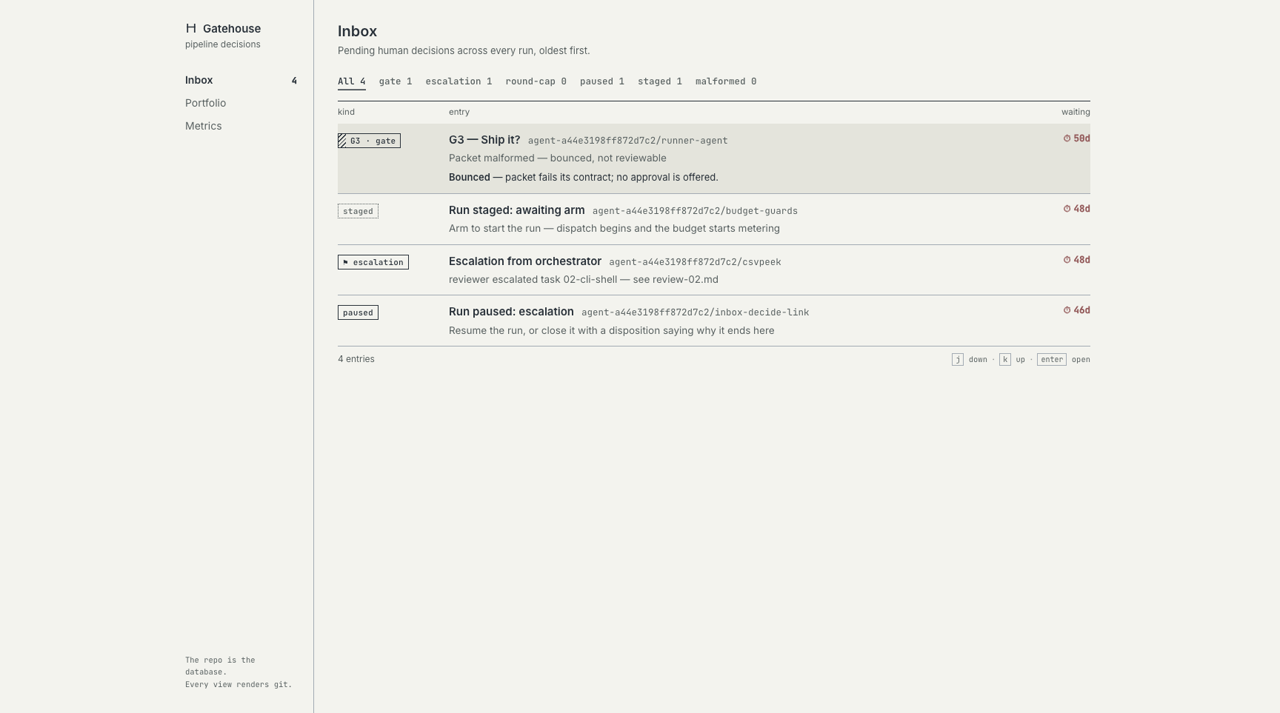
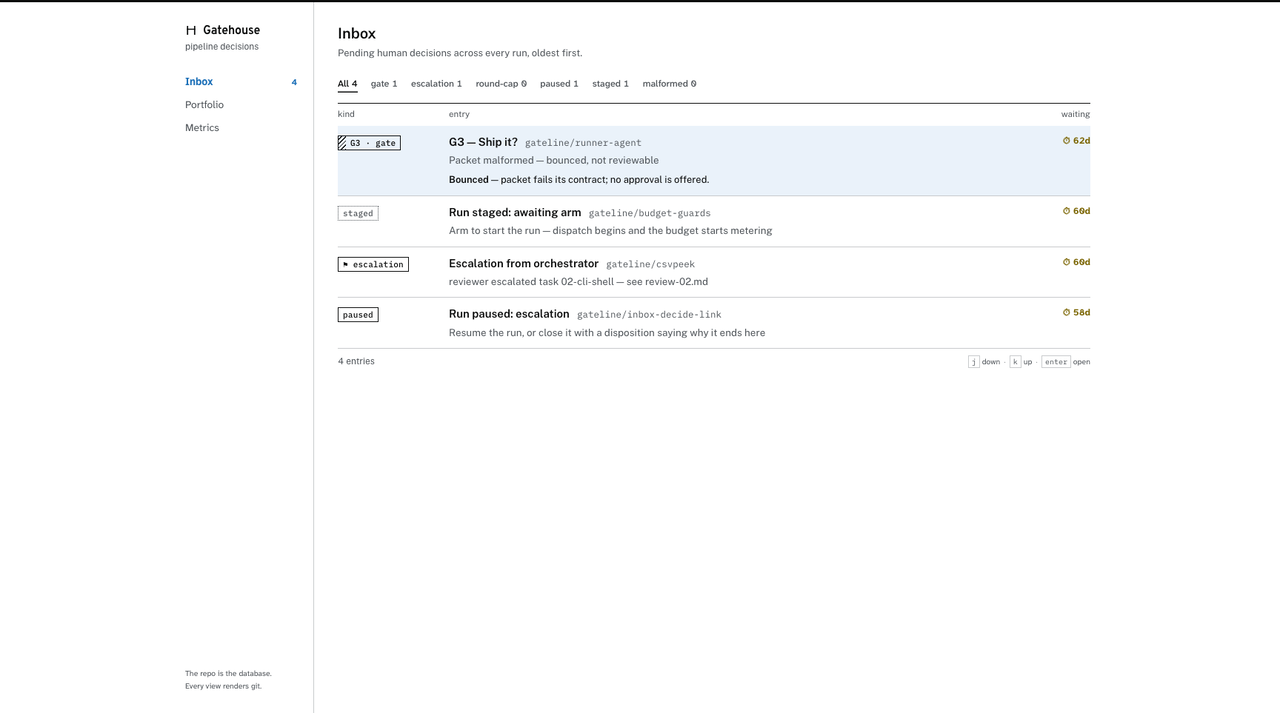
docs: the README frames re-captured on the site's palette and type
The five frames and the GIF under docs/images/ are cut from the cockpit as
it now renders — white ground, signal blue, the yellow gate on the table,
Public Sans and Atkinson with Plex Mono for the record's own words — over
this repository's twenty runs. The README's two counts that moved (nineteen
runs, 37 days) are updated, and the recipe notes that a capture must come
from a checkout named gateline, since the source id is the directory name.

diff --git a/README.md b/README.md
@@ -7,7 +7,7 @@ each phase gate from a cockpit that reads nothing but the repository. Built for
 senior engineers moving from single-conversation AI pair-programming to
 multi-agent development.
 
-![Gatehouse, gateline's cockpit, in five screens: the Inbox with four decisions waiting, one of them a bounced malformed packet; the Portfolio's gate ledger across nineteen runs; the run csvpeek paused on an escalation with its budget over the limit; the finished run fleetview-design and its artifact record; and Metrics flagging gates G1 and G2 as over-triggering.](docs/images/gatehouse.gif)
+![Gatehouse, gateline's cockpit, in five screens: the Inbox with four decisions waiting, one of them a bounced malformed packet; the Portfolio's gate ledger across twenty runs; the run csvpeek paused on an escalation with its budget over the limit; the finished run fleetview-design and its artifact record; and Metrics flagging gates G1 and G2 as over-triggering.](docs/images/gatehouse.gif)
 
 **Current state**: The frontend, CLI, and orchestrator are fully operable and run as one unit via `gateline up`. Gate approvals are a convention, not evidence, until [#129](https://github.com/nathancrtr/gateline/issues/129) lands.
 
@@ -39,7 +39,7 @@ the same mechanism.
   approval above 90% is flagged as over-triggering — the signal to move its
   scope down the tier ladder.
 
-![The run page for csvpeek, paused on an escalation: the phase spine with G0 and G1 approved and the implement phase current; a task board of four items; the budget reading $31 of $30, marked over; and an escalation card from the orchestrator, waiting 37 days, with its artifacts and a Resolve button.](docs/images/run-escalation-detail.png)
+![The run page for csvpeek, paused on an escalation: the phase spine with G0 and G1 approved and the implement phase current; a task board of four items; the budget reading $31 of $30, marked over; and an escalation card from the orchestrator, waiting 60 days, with its artifacts and a Resolve button.](docs/images/run-escalation-detail.png)
 
 *Every screenshot is Gatehouse, the cockpit, over this repository's own runs —
 gateline develops itself through its own gates — captured with the

diff --git a/docs/images/README.md b/docs/images/README.md
@@ -6,7 +6,10 @@
 they are the GIF's sources.
 
 **Recipe.** Serve the cockpit read-only over this repository, with no
-orchestrator running (nothing dispatches, nothing is billed):
+orchestrator running (nothing dispatches, nothing is billed). The source id
+the slugs carry is the checkout directory's name, so capture from a checkout
+named `gateline` — from a worktree, add a detached one at such a path and
+point `--repo` at it:
 
 ```sh
 cd packages && node cli/src/main.ts ui --repo .. --no-open --port 4312
